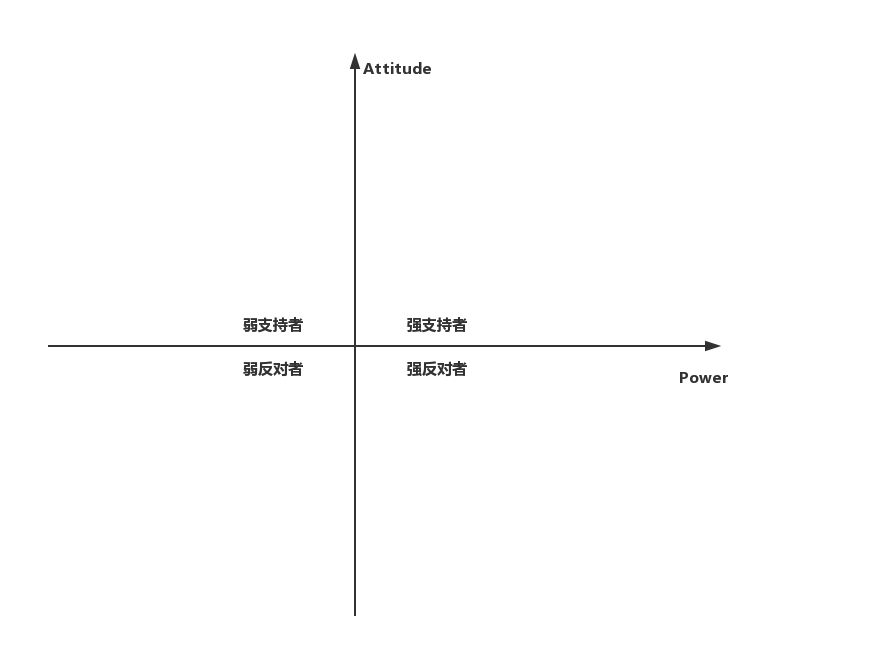
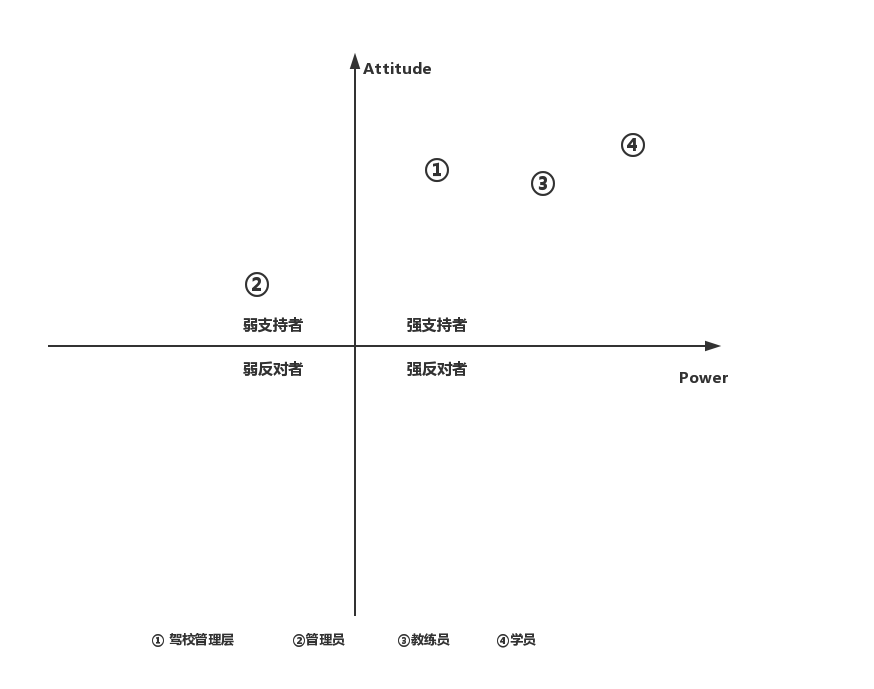
涉众

diff --git a/md/启动阶段/涉众分析过程.md b/md/启动阶段/涉众分析过程.md
@@ -6,6 +6,7 @@
 | ---------- | ---- | --------------- |
 | 2016/10/4  | 汤大业  | 建立文档架构          |
 | 2016/10/12 | 朱俊文  | 完成1.2，2.1，2.2部分 |
+| 2016/10/13 | 万云天  | 完成剩余部分          |
 
 ---
 
@@ -104,19 +105,16 @@
 
 **驾校助手**系统中涉众并不是完全平等的，有些涉众比其他涉众更为重要，其优先级USER/TASK矩阵表示如下(优先级越高表示越重要):
 
-> 这里是系统的user/task矩阵，格式参考P157
->
-> | 用户群体 | 任务   | 群体数量 | 优先级  |
-> | ---- | ---- | ---- | ---- |
-> |      |      |      |      |
-> |      |      |      |      |
-> |      |      |      |      |
+| 用户群体  | 任务                      | 群体数量 | 优先级  |
+| ----- | ----------------------- | ---- | ---- |
+| 驾校管理层 | 驾校工作人员管理                | 5    | 1    |
+| 管理员   | 录入和注销教练员和学员信息，处理教练员请假申请 | 10   | 3    |
+| 教练员   | 查看课程表和学员信息，向管理员请假       | 50   | 2    |
+| 学员    | 预约课程和考试                 | 500  | 4    |
 
 #### 3.2 风险评估
 
->这里是风险评估的Power-Attitude分布图,具体图形见P158
->
->![risk-assessment](https://github.com/CnNjuTdy/Requirements/blob/master/md/img/risk_assessment.png?raw=true)
+![risk-assessment](https://github.com/CnNjuTdy/Requirements/blob/master/md/img/risk_assessment.png?raw=true)
 
 ### 4. 涉众代表选择
 
@@ -125,13 +123,10 @@
 1. 每种涉众类别都有自己的代表 
 2. 态度积极: 愿意提供帮助  
 3. 数量适中，太少会导致个人看法倾轧群体共同看法 ；太多会造成达成一致意见较为困难 ，代表数量的准确数字要视项目的上下文环境来确定, 这里为5 
-4. 保持一个恰当的比例分布，分布的基准是代表们的个人特征，尤其是计算机能力和业务能力方面
-
-> 这里没有很多的实质性内容可以删掉？
+4. 保持一个恰当的比例分布，分布的基准是代表们的个人特征，尤其是计算机能力和业务能力方
 
 ---
 
----
 
 ## 参考资料
 
